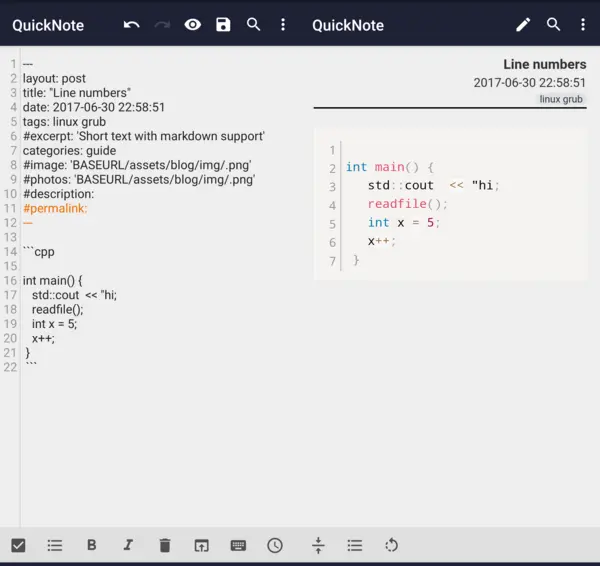
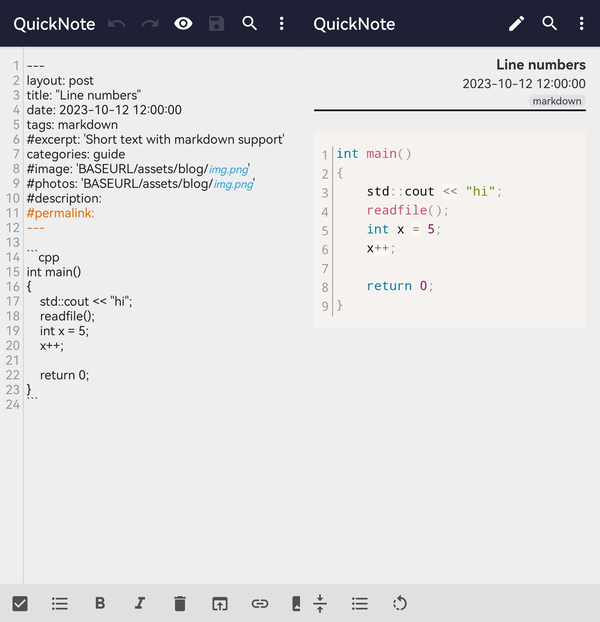
Auto padding of code blocks (PR #2129)

Changed region(s): [[0.0, 0.03, 1.0, 0.6608], [0.0, 0.9311, 1.0, 1.0], [0.54, 0.2403, 0.84, 0.5106]]

diff --git a/app/thirdparty/assets/prism/components/prism-cmake.min.js b/app/thirdparty/assets/prism/components/prism-cmake.min.js
@@ -1,0 +1,1 @@
+Prism.languages.cmake={comment:/#.*/,string:{pattern:/"(?:[^\\"]|\\.)*"/,greedy:!0,inside:{interpolation:{pattern:/\$\{(?:[^{}$]|\$\{[^{}$]*\})*\}/,inside:{punctuation:/\$\{|\}/,variable:/\w+/}}}},variable:/\b(?:CMAKE_\w+|\w+_(?:(?:BINARY|SOURCE)_DIR|DESCRIPTION|HOMEPAGE_URL|ROOT|VERSION(?:_MAJOR|_MINOR|_PATCH|_TWEAK)?)|(?:ANDROID|APPLE|BORLAND|BUILD_SHARED_LIBS|CACHE|CPACK_(?:ABSOLUTE_DESTINATION_FILES|COMPONENT_INCLUDE_TOPLEVEL_DIRECTORY|ERROR_ON_ABSOLUTE_INSTALL_DESTINATION|INCLUDE_TOPLEVEL_DIRECTORY|INSTALL_DEFAULT_DIRECTORY_PERMISSIONS|INSTALL_SCRIPT|PACKAGING_INSTALL_PREFIX|SET_DESTDIR|WARN_ON_ABSOLUTE_INSTALL_DESTINATION)|CTEST_(?:BINARY_DIRECTORY|BUILD_COMMAND|BUILD_NAME|BZR_COMMAND|BZR_UPDATE_OPTIONS|CHANGE_ID|CHECKOUT_COMMAND|CONFIGURATION_TYPE|CONFIGURE_COMMAND|COVERAGE_COMMAND|COVERAGE_EXTRA_FLAGS|CURL_OPTIONS|CUSTOM_(?:COVERAGE_EXCLUDE|ERROR_EXCEPTION|ERROR_MATCH|ERROR_POST_CONTEXT|ERROR_PRE_CONTEXT|MAXIMUM_FAILED_TEST_OUTPUT_SIZE|MAXIMUM_NUMBER_OF_(?:ERRORS|WARNINGS)|MAXIMUM_PASSED_TEST_OUTPUT_SIZE|MEMCHECK_IGNORE|POST_MEMCHECK|POST_TEST|PRE_MEMCHECK|PRE_TEST|TESTS_IGNORE|WARNING_EXCEPTION|WARNING_MATCH)|CVS_CHECKOUT|CVS_COMMAND|CVS_UPDATE_OPTIONS|DROP_LOCATION|DROP_METHOD|DROP_SITE|DROP_SITE_CDASH|DROP_SITE_PASSWORD|DROP_SITE_USER|EXTRA_COVERAGE_GLOB|GIT_COMMAND|GIT_INIT_SUBMODULES|GIT_UPDATE_CUSTOM|GIT_UPDATE_OPTIONS|HG_COMMAND|HG_UPDATE_OPTIONS|LABELS_FOR_SUBPROJECTS|MEMORYCHECK_(?:COMMAND|COMMAND_OPTIONS|SANITIZER_OPTIONS|SUPPRESSIONS_FILE|TYPE)|NIGHTLY_START_TIME|P4_CLIENT|P4_COMMAND|P4_OPTIONS|P4_UPDATE_OPTIONS|RUN_CURRENT_SCRIPT|SCP_COMMAND|SITE|SOURCE_DIRECTORY|SUBMIT_URL|SVN_COMMAND|SVN_OPTIONS|SVN_UPDATE_OPTIONS|TEST_LOAD|TEST_TIMEOUT|TRIGGER_SITE|UPDATE_COMMAND|UPDATE_OPTIONS|UPDATE_VERSION_ONLY|USE_LAUNCHERS)|CYGWIN|ENV|EXECUTABLE_OUTPUT_PATH|GHS-MULTI|IOS|LIBRARY_OUTPUT_PATH|MINGW|MSVC(?:10|11|12|14|60|70|71|80|90|_IDE|_TOOLSET_VERSION|_VERSION)?|MSYS|PROJECT_NAME|UNIX|WIN32|WINCE|WINDOWS_PHONE|WINDOWS_STORE|XCODE))\b/,property:/\b(?:cxx_\w+|(?:ARCHIVE_OUTPUT_(?:DIRECTORY|NAME)|COMPILE_DEFINITIONS|COMPILE_PDB_NAME|COMPILE_PDB_OUTPUT_DIRECTORY|EXCLUDE_FROM_DEFAULT_BUILD|IMPORTED_(?:IMPLIB|LIBNAME|LINK_DEPENDENT_LIBRARIES|LINK_INTERFACE_LANGUAGES|LINK_INTERFACE_LIBRARIES|LINK_INTERFACE_MULTIPLICITY|LOCATION|NO_SONAME|OBJECTS|SONAME)|INTERPROCEDURAL_OPTIMIZATION|LIBRARY_OUTPUT_DIRECTORY|LIBRARY_OUTPUT_NAME|LINK_FLAGS|LINK_INTERFACE_LIBRARIES|LINK_INTERFACE_MULTIPLICITY|LOCATION|MAP_IMPORTED_CONFIG|OSX_ARCHITECTURES|OUTPUT_NAME|PDB_NAME|PDB_OUTPUT_DIRECTORY|RUNTIME_OUTPUT_DIRECTORY|RUNTIME_OUTPUT_NAME|STATIC_LIBRARY_FLAGS|VS_CSHARP|VS_DOTNET_REFERENCEPROP|VS_DOTNET_REFERENCE|VS_GLOBAL_SECTION_POST|VS_GLOBAL_SECTION_PRE|VS_GLOBAL|XCODE_ATTRIBUTE)_\w+|\w+_(?:CLANG_TIDY|COMPILER_LAUNCHER|CPPCHECK|CPPLINT|INCLUDE_WHAT_YOU_USE|OUTPUT_NAME|POSTFIX|VISIBILITY_PRESET)|ABSTRACT|ADDITIONAL_MAKE_CLEAN_FILES|ADVANCED|ALIASED_TARGET|ALLOW_DUPLICATE_CUSTOM_TARGETS|ANDROID_(?:ANT_ADDITIONAL_OPTIONS|API|API_MIN|ARCH|ASSETS_DIRECTORIES|GUI|JAR_DEPENDENCIES|NATIVE_LIB_DEPENDENCIES|NATIVE_LIB_DIRECTORIES|PROCESS_MAX|PROGUARD|PROGUARD_CONFIG_PATH|SECURE_PROPS_PATH|SKIP_ANT_STEP|STL_TYPE)|ARCHIVE_OUTPUT_DIRECTORY|ATTACHED_FILES|ATTACHED_FILES_ON_FAIL|AUTOGEN_(?:BUILD_DIR|ORIGIN_DEPENDS|PARALLEL|SOURCE_GROUP|TARGETS_FOLDER|TARGET_DEPENDS)|AUTOMOC|AUTOMOC_(?:COMPILER_PREDEFINES|DEPEND_FILTERS|EXECUTABLE|MACRO_NAMES|MOC_OPTIONS|SOURCE_GROUP|TARGETS_FOLDER)|AUTORCC|AUTORCC_EXECUTABLE|AUTORCC_OPTIONS|AUTORCC_SOURCE_GROUP|AUTOUIC|AUTOUIC_EXECUTABLE|AUTOUIC_OPTIONS|AUTOUIC_SEARCH_PATHS|BINARY_DIR|BUILDSYSTEM_TARGETS|BUILD_RPATH|BUILD_RPATH_USE_ORIGIN|BUILD_WITH_INSTALL_NAME_DIR|BUILD_WITH_INSTALL_RPATH|BUNDLE|BUNDLE_EXTENSION|CACHE_VARIABLES|CLEAN_NO_CUSTOM|COMMON_LANGUAGE_RUNTIME|COMPATIBLE_INTERFACE_(?:BOOL|NUMBER_MAX|NUMBER_MIN|STRING)|COMPILE_(?:DEFINITIONS|FEATURES|FLAGS|OPTIONS|PDB_NAME|PDB_OUTPUT_DIRECTORY)|COST|CPACK_DESKTOP_SHORTCUTS|CPACK_NEVER_OVERWRITE|CPACK_PERMANENT|CPACK_STARTUP_SHORTCUTS|CPACK_START_MENU_SHORTCUTS|CPACK_WIX_ACL|CROSSCOMPILING_EMULATOR|CUDA_EXTENSIONS|CUDA_PTX_COMPILATION|CUDA_RESOLVE_DEVICE_SYMBOLS|CUDA_SEPARABLE_COMPILATION|CUDA_STANDARD|CUDA_STANDARD_REQUIRED|CXX_EXTENSIONS|CXX_STANDARD|CXX_STANDARD_REQUIRED|C_EXTENSIONS|C_STANDARD|C_STANDARD_REQUIRED|DEBUG_CONFIGURATIONS|DEFINE_SYMBOL|DEFINITIONS|DEPENDS|DEPLOYMENT_ADDITIONAL_FILES|DEPLOYMENT_REMOTE_DIRECTORY|DISABLED|DISABLED_FEATURES|ECLIPSE_EXTRA_CPROJECT_CONTENTS|ECLIPSE_EXTRA_NATURES|ENABLED_FEATURES|ENABLED_LANGUAGES|ENABLE_EXPORTS|ENVIRONMENT|EXCLUDE_FROM_ALL|EXCLUDE_FROM_DEFAULT_BUILD|EXPORT_NAME|EXPORT_PROPERTIES|EXTERNAL_OBJECT|EchoString|FAIL_REGULAR_EXPRESSION|FIND_LIBRARY_USE_LIB32_PATHS|FIND_LIBRARY_USE_LIB64_PATHS|FIND_LIBRARY_USE_LIBX32_PATHS|FIND_LIBRARY_USE_OPENBSD_VERSIONING|FIXTURES_CLEANUP|FIXTURES_REQUIRED|FIXTURES_SETUP|FOLDER|FRAMEWORK|Fortran_FORMAT|Fortran_MODULE_DIRECTORY|GENERATED|GENERATOR_FILE_NAME|GENERATOR_IS_MULTI_CONFIG|GHS_INTEGRITY_APP|GHS_NO_SOURCE_GROUP_FILE|GLOBAL_DEPENDS_DEBUG_MODE|GLOBAL_DEPENDS_NO_CYCLES|GNUtoMS|HAS_CXX|HEADER_FILE_ONLY|HELPSTRING|IMPLICIT_DEPENDS_INCLUDE_TRANSFORM|IMPORTED|IMPORTED_(?:COMMON_LANGUAGE_RUNTIME|CONFIGURATIONS|GLOBAL|IMPLIB|LIBNAME|LINK_DEPENDENT_LIBRARIES|LINK_INTERFACE_(?:LANGUAGES|LIBRARIES|MULTIPLICITY)|LOCATION|NO_SONAME|OBJECTS|SONAME)|IMPORT_PREFIX|IMPORT_SUFFIX|INCLUDE_DIRECTORIES|INCLUDE_REGULAR_EXPRESSION|INSTALL_NAME_DIR|INSTALL_RPATH|INSTALL_RPATH_USE_LINK_PATH|INTERFACE_(?:AUTOUIC_OPTIONS|COMPILE_DEFINITIONS|COMPILE_FEATURES|COMPILE_OPTIONS|INCLUDE_DIRECTORIES|LINK_DEPENDS|LINK_DIRECTORIES|LINK_LIBRARIES|LINK_OPTIONS|POSITION_INDEPENDENT_CODE|SOURCES|SYSTEM_INCLUDE_DIRECTORIES)|INTERPROCEDURAL_OPTIMIZATION|IN_TRY_COMPILE|IOS_INSTALL_COMBINED|JOB_POOLS|JOB_POOL_COMPILE|JOB_POOL_LINK|KEEP_EXTENSION|LABELS|LANGUAGE|LIBRARY_OUTPUT_DIRECTORY|LINKER_LANGUAGE|LINK_(?:DEPENDS|DEPENDS_NO_SHARED|DIRECTORIES|FLAGS|INTERFACE_LIBRARIES|INTERFACE_MULTIPLICITY|LIBRARIES|OPTIONS|SEARCH_END_STATIC|SEARCH_START_STATIC|WHAT_YOU_USE)|LISTFILE_STACK|LOCATION|MACOSX_BUNDLE|MACOSX_BUNDLE_INFO_PLIST|MACOSX_FRAMEWORK_INFO_PLIST|MACOSX_PACKAGE_LOCATION|MACOSX_RPATH|MACROS|MANUALLY_ADDED_DEPENDENCIES|MEASUREMENT|MODIFIED|NAME|NO_SONAME|NO_SYSTEM_FROM_IMPORTED|OBJECT_DEPENDS|OBJECT_OUTPUTS|OSX_ARCHITECTURES|OUTPUT_NAME|PACKAGES_FOUND|PACKAGES_NOT_FOUND|PARENT_DIRECTORY|PASS_REGULAR_EXPRESSION|PDB_NAME|PDB_OUTPUT_DIRECTORY|POSITION_INDEPENDENT_CODE|POST_INSTALL_SCRIPT|PREDEFINED_TARGETS_FOLDER|PREFIX|PRE_INSTALL_SCRIPT|PRIVATE_HEADER|PROCESSORS|PROCESSOR_AFFINITY|PROJECT_LABEL|PUBLIC_HEADER|REPORT_UNDEFINED_PROPERTIES|REQUIRED_FILES|RESOURCE|RESOURCE_LOCK|RULE_LAUNCH_COMPILE|RULE_LAUNCH_CUSTOM|RULE_LAUNCH_LINK|RULE_MESSAGES|RUNTIME_OUTPUT_DIRECTORY|RUN_SERIAL|SKIP_AUTOGEN|SKIP_AUTOMOC|SKIP_AUTORCC|SKIP_AUTOUIC|SKIP_BUILD_RPATH|SKIP_RETURN_CODE|SOURCES|SOURCE_DIR|SOVERSION|STATIC_LIBRARY_FLAGS|STATIC_LIBRARY_OPTIONS|STRINGS|SUBDIRECTORIES|SUFFIX|SYMBOLIC|TARGET_ARCHIVES_MAY_BE_SHARED_LIBS|TARGET_MESSAGES|TARGET_SUPPORTS_SHARED_LIBS|TESTS|TEST_INCLUDE_FILE|TEST_INCLUDE_FILES|TIMEOUT|TIMEOUT_AFTER_MATCH|TYPE|USE_FOLDERS|VALUE|VARIABLES|VERSION|VISIBILITY_INLINES_HIDDEN|VS_(?:CONFIGURATION_TYPE|COPY_TO_OUT_DIR|DEBUGGER_(?:COMMAND|COMMAND_ARGUMENTS|ENVIRONMENT|WORKING_DIRECTORY)|DEPLOYMENT_CONTENT|DEPLOYMENT_LOCATION|DOTNET_REFERENCES|DOTNET_REFERENCES_COPY_LOCAL|INCLUDE_IN_VSIX|IOT_STARTUP_TASK|KEYWORD|RESOURCE_GENERATOR|SCC_AUXPATH|SCC_LOCALPATH|SCC_PROJECTNAME|SCC_PROVIDER|SDK_REFERENCES|SHADER_(?:DISABLE_OPTIMIZATIONS|ENABLE_DEBUG|ENTRYPOINT|FLAGS|MODEL|OBJECT_FILE_NAME|OUTPUT_HEADER_FILE|TYPE|VARIABLE_NAME)|STARTUP_PROJECT|TOOL_OVERRIDE|USER_PROPS|WINRT_COMPONENT|WINRT_EXTENSIONS|WINRT_REFERENCES|XAML_TYPE)|WILL_FAIL|WIN32_EXECUTABLE|WINDOWS_EXPORT_ALL_SYMBOLS|WORKING_DIRECTORY|WRAP_EXCLUDE|XCODE_(?:EMIT_EFFECTIVE_PLATFORM_NAME|EXPLICIT_FILE_TYPE|FILE_ATTRIBUTES|LAST_KNOWN_FILE_TYPE|PRODUCT_TYPE|SCHEME_(?:ADDRESS_SANITIZER|ADDRESS_SANITIZER_USE_AFTER_RETURN|ARGUMENTS|DISABLE_MAIN_THREAD_CHECKER|DYNAMIC_LIBRARY_LOADS|DYNAMIC_LINKER_API_USAGE|ENVIRONMENT|EXECUTABLE|GUARD_MALLOC|MAIN_THREAD_CHECKER_STOP|MALLOC_GUARD_EDGES|MALLOC_SCRIBBLE|MALLOC_STACK|THREAD_SANITIZER(?:_STOP)?|UNDEFINED_BEHAVIOUR_SANITIZER(?:_STOP)?|ZOMBIE_OBJECTS))|XCTEST)\b/,keyword:/\b(?:add_compile_definitions|add_compile_options|add_custom_command|add_custom_target|add_definitions|add_dependencies|add_executable|add_library|add_link_options|add_subdirectory|add_test|aux_source_directory|break|build_command|build_name|cmake_host_system_information|cmake_minimum_required|cmake_parse_arguments|cmake_policy|configure_file|continue|create_test_sourcelist|ctest_build|ctest_configure|ctest_coverage|ctest_empty_binary_directory|ctest_memcheck|ctest_read_custom_files|ctest_run_script|ctest_sleep|ctest_start|ctest_submit|ctest_test|ctest_update|ctest_upload|define_property|else|elseif|enable_language|enable_testing|endforeach|endfunction|endif|endmacro|endwhile|exec_program|execute_process|export|export_library_dependencies|file|find_file|find_library|find_package|find_path|find_program|fltk_wrap_ui|foreach|function|get_cmake_property|get_directory_property|get_filename_component|get_property|get_source_file_property|get_target_property|get_test_property|if|include|include_directories|include_external_msproject|include_guard|include_regular_expression|install|install_files|install_programs|install_targets|link_directories|link_libraries|list|load_cache|load_command|macro|make_directory|mark_as_advanced|math|message|option|output_required_files|project|qt_wrap_cpp|qt_wrap_ui|remove|remove_definitions|return|separate_arguments|set|set_directory_properties|set_property|set_source_files_properties|set_target_properties|set_tests_properties|site_name|source_group|string|subdir_depends|subdirs|target_compile_definitions|target_compile_features|target_compile_options|target_include_directories|target_link_directories|target_link_libraries|target_link_options|target_sources|try_compile|try_run|unset|use_mangled_mesa|utility_source|variable_requires|variable_watch|while|write_file)(?=\s*\()\b/,boolean:/\b(?:FALSE|OFF|ON|TRUE)\b/,namespace:/\b(?:INTERFACE|PRIVATE|PROPERTIES|PUBLIC|SHARED|STATIC|TARGET_OBJECTS)\b/,operator:/\b(?:AND|DEFINED|EQUAL|GREATER|LESS|MATCHES|NOT|OR|STREQUAL|STRGREATER|STRLESS|VERSION_EQUAL|VERSION_GREATER|VERSION_LESS)\b/,inserted:{pattern:/\b\w+::\w+\b/,alias:"class-name"},number:/\b\d+(?:\.\d+)*\b/,function:/\b[a-z_]\w*(?=\s*\()\b/i,punctuation:/[()>}]|\$[<{]/};

diff --git a/app/thirdparty/assets/prism/components/prism-markdown.min.js b/app/thirdparty/assets/prism/components/prism-markdown.min.js
@@ -1,0 +1,1 @@
+!function(n){function e(n){return n=n.replace(/<inner>/g,(function(){return"(?:\\\\.|[^\\\\\n\r]|(?:\n|\r\n?)(?![\r\n]))"})),RegExp("((?:^|[^\\\\])(?:\\\\{2})*)(?:"+n+")")}var t="(?:\\\\.|``(?:[^`\r\n]|`(?!`))+``|`[^`\r\n]+`|[^\\\\|\r\n`])+",a="\\|?__(?:\\|__)+\\|?(?:(?:\n|\r\n?)|(?![^]))".replace(/__/g,(function(){return t})),i="\\|?[ \t]*:?-{3,}:?[ \t]*(?:\\|[ \t]*:?-{3,}:?[ \t]*)+\\|?(?:\n|\r\n?)";n.languages.markdown=n.languages.extend("markup",{}),n.languages.insertBefore("markdown","prolog",{"front-matter-block":{pattern:/(^(?:\s*[\r\n])?)---(?!.)[\s\S]*?[\r\n]---(?!.)/,lookbehind:!0,greedy:!0,inside:{punctuation:/^---|---$/,"front-matter":{pattern:/\S+(?:\s+\S+)*/,alias:["yaml","language-yaml"],inside:n.languages.yaml}}},blockquote:{pattern:/^>(?:[\t ]*>)*/m,alias:"punctuation"},table:{pattern:RegExp("^"+a+i+"(?:"+a+")*","m"),inside:{"table-data-rows":{pattern:RegExp("^("+a+i+")(?:"+a+")*$"),lookbehind:!0,inside:{"table-data":{pattern:RegExp(t),inside:n.languages.markdown},punctuation:/\|/}},"table-line":{pattern:RegExp("^("+a+")"+i+"$"),lookbehind:!0,inside:{punctuation:/\||:?-{3,}:?/}},"table-header-row":{pattern:RegExp("^"+a+"$"),inside:{"table-header":{pattern:RegExp(t),alias:"important",inside:n.languages.markdown},punctuation:/\|/}}}},code:[{pattern:/((?:^|\n)[ \t]*\n|(?:^|\r\n?)[ \t]*\r\n?)(?: {4}|\t).+(?:(?:\n|\r\n?)(?: {4}|\t).+)*/,lookbehind:!0,alias:"keyword"},{pattern:/^```[\s\S]*?^```$/m,greedy:!0,inside:{"code-block":{pattern:/^(```.*(?:\n|\r\n?))[\s\S]+?(?=(?:\n|\r\n?)^```$)/m,lookbehind:!0},"code-language":{pattern:/^(```).+/,lookbehind:!0},punctuation:/```/}}],title:[{pattern:/\S.*(?:\n|\r\n?)(?:==+|--+)(?=[ \t]*$)/m,alias:"important",inside:{punctuation:/==+$|--+$/}},{pattern:/(^\s*)#.+/m,lookbehind:!0,alias:"important",inside:{punctuation:/^#+|#+$/}}],hr:{pattern:/(^\s*)([*-])(?:[\t ]*\2){2,}(?=\s*$)/m,lookbehind:!0,alias:"punctuation"},list:{pattern:/(^\s*)(?:[*+-]|\d+\.)(?=[\t ].)/m,lookbehind:!0,alias:"punctuation"},"url-reference":{pattern:/!?\[[^\]]+\]:[\t ]+(?:\S+|<(?:\\.|[^>\\])+>)(?:[\t ]+(?:"(?:\\.|[^"\\])*"|'(?:\\.|[^'\\])*'|\((?:\\.|[^)\\])*\)))?/,inside:{variable:{pattern:/^(!?\[)[^\]]+/,lookbehind:!0},string:/(?:"(?:\\.|[^"\\])*"|'(?:\\.|[^'\\])*'|\((?:\\.|[^)\\])*\))$/,punctuation:/^[\[\]!:]|[<>]/},alias:"url"},bold:{pattern:e("\\b__(?:(?!_)<inner>|_(?:(?!_)<inner>)+_)+__\\b|\\*\\*(?:(?!\\*)<inner>|\\*(?:(?!\\*)<inner>)+\\*)+\\*\\*"),lookbehind:!0,greedy:!0,inside:{content:{pattern:/(^..)[\s\S]+(?=..$)/,lookbehind:!0,inside:{}},punctuation:/\*\*|__/}},italic:{pattern:e("\\b_(?:(?!_)<inner>|__(?:(?!_)<inner>)+__)+_\\b|\\*(?:(?!\\*)<inner>|\\*\\*(?:(?!\\*)<inner>)+\\*\\*)+\\*"),lookbehind:!0,greedy:!0,inside:{content:{pattern:/(^.)[\s\S]+(?=.$)/,lookbehind:!0,inside:{}},punctuation:/[*_]/}},strike:{pattern:e("(~~?)(?:(?!~)<inner>)+\\2"),lookbehind:!0,greedy:!0,inside:{content:{pattern:/(^~~?)[\s\S]+(?=\1$)/,lookbehind:!0,inside:{}},punctuation:/~~?/}},"code-snippet":{pattern:/(^|[^\\`])(?:``[^`\r\n]+(?:`[^`\r\n]+)*``(?!`)|`[^`\r\n]+`(?!`))/,lookbehind:!0,greedy:!0,alias:["code","keyword"]},url:{pattern:e('!?\\[(?:(?!\\])<inner>)+\\](?:\\([^\\s)]+(?:[\t ]+"(?:\\\\.|[^"\\\\])*")?\\)|[ \t]?\\[(?:(?!\\])<inner>)+\\])'),lookbehind:!0,greedy:!0,inside:{operator:/^!/,content:{pattern:/(^\[)[^\]]+(?=\])/,lookbehind:!0,inside:{}},variable:{pattern:/(^\][ \t]?\[)[^\]]+(?=\]$)/,lookbehind:!0},url:{pattern:/(^\]\()[^\s)]+/,lookbehind:!0},string:{pattern:/(^[ \t]+)"(?:\\.|[^"\\])*"(?=\)$)/,lookbehind:!0}}}}),["url","bold","italic","strike"].forEach((function(e){["url","bold","italic","strike","code-snippet"].forEach((function(t){e!==t&&(n.languages.markdown[e].inside.content.inside[t]=n.languages.markdown[t])}))})),n.hooks.add("after-tokenize",(function(n){"markdown"!==n.language&&"md"!==n.language||function n(e){if(e&&"string"!=typeof e)for(var t=0,a=e.length;t<a;t++){var i=e[t];if("code"===i.type){var r=i.content[1],o=i.content[3];if(r&&o&&"code-language"===r.type&&"code-block"===o.type&&"string"==typeof r.content){var l=r.content.replace(/\b#/g,"sharp").replace(/\b\+\+/g,"pp"),s="language-"+(l=(/[a-z][\w-]*/i.exec(l)||[""])[0].toLowerCase());o.alias?"string"==typeof o.alias?o.alias=[o.alias,s]:o.alias.push(s):o.alias=[s]}}else n(i.content)}}(n.tokens)})),n.hooks.add("wrap",(function(e){if("code-block"===e.type){for(var t="",a=0,i=e.classes.length;a<i;a++){var s=e.classes[a],d=/language-(.+)/.exec(s);if(d){t=d[1];break}}var p=n.languages[t];if(p)e.content=n.highlight(e.content.replace(r,"").replace(/&(\w{1,8}|#x?[\da-f]{1,8});/gi,(function(n,e){var t;return"#"===(e=e.toLowerCase())[0]?(t="x"===e[1]?parseInt(e.slice(2),16):Number(e.slice(1)),l(t)):o[e]||n})),p,t);else if(t&&"none"!==t&&n.plugins.autoloader){var u="md-"+(new Date).valueOf()+"-"+Math.floor(1e16*Math.random());e.attributes.id=u,n.plugins.autoloader.loadLanguages(t,(function(){var e=document.getElementById(u);e&&(e.innerHTML=n.highlight(e.textContent,n.languages[t],t))}))}}}));var r=RegExp(n.languages.markup.tag.pattern.source,"gi"),o={amp:"&",lt:"<",gt:">",quot:'"'},l=String.fromCodePoint||String.fromCharCode;n.languages.md=n.languages.markdown}(Prism);

diff --git a/app/thirdparty/assets/prism/components/prism-sql.min.js b/app/thirdparty/assets/prism/components/prism-sql.min.js
@@ -1,0 +1,1 @@
+Prism.languages.sql={comment:{pattern:/(^|[^\\])(?:\/\*[\s\S]*?\*\/|(?:--|\/\/|#).*)/,lookbehind:!0},variable:[{pattern:/@(["'`])(?:\\[\s\S]|(?!\1)[^\\])+\1/,greedy:!0},/@[\w.$]+/],string:{pattern:/(^|[^@\\])("|')(?:\\[\s\S]|(?!\2)[^\\]|\2\2)*\2/,greedy:!0,lookbehind:!0},identifier:{pattern:/(^|[^@\\])`(?:\\[\s\S]|[^`\\]|``)*`/,greedy:!0,lookbehind:!0,inside:{punctuation:/^`|`$/}},function:/\b(?:AVG|COUNT|FIRST|FORMAT|LAST|LCASE|LEN|MAX|MID|MIN|MOD|NOW|ROUND|SUM|UCASE)(?=\s*\()/i,keyword:/\b(?:ACTION|ADD|AFTER|ALGORITHM|ALL|ALTER|ANALYZE|ANY|APPLY|AS|ASC|AUTHORIZATION|AUTO_INCREMENT|BACKUP|BDB|BEGIN|BERKELEYDB|BIGINT|BINARY|BIT|BLOB|BOOL|BOOLEAN|BREAK|BROWSE|BTREE|BULK|BY|CALL|CASCADED?|CASE|CHAIN|CHAR(?:ACTER|SET)?|CHECK(?:POINT)?|CLOSE|CLUSTERED|COALESCE|COLLATE|COLUMNS?|COMMENT|COMMIT(?:TED)?|COMPUTE|CONNECT|CONSISTENT|CONSTRAINT|CONTAINS(?:TABLE)?|CONTINUE|CONVERT|CREATE|CROSS|CURRENT(?:_DATE|_TIME|_TIMESTAMP|_USER)?|CURSOR|CYCLE|DATA(?:BASES?)?|DATE(?:TIME)?|DAY|DBCC|DEALLOCATE|DEC|DECIMAL|DECLARE|DEFAULT|DEFINER|DELAYED|DELETE|DELIMITERS?|DENY|DESC|DESCRIBE|DETERMINISTIC|DISABLE|DISCARD|DISK|DISTINCT|DISTINCTROW|DISTRIBUTED|DO|DOUBLE|DROP|DUMMY|DUMP(?:FILE)?|DUPLICATE|ELSE(?:IF)?|ENABLE|ENCLOSED|END|ENGINE|ENUM|ERRLVL|ERRORS|ESCAPED?|EXCEPT|EXEC(?:UTE)?|EXISTS|EXIT|EXPLAIN|EXTENDED|FETCH|FIELDS|FILE|FILLFACTOR|FIRST|FIXED|FLOAT|FOLLOWING|FOR(?: EACH ROW)?|FORCE|FOREIGN|FREETEXT(?:TABLE)?|FROM|FULL|FUNCTION|GEOMETRY(?:COLLECTION)?|GLOBAL|GOTO|GRANT|GROUP|HANDLER|HASH|HAVING|HOLDLOCK|HOUR|IDENTITY(?:COL|_INSERT)?|IF|IGNORE|IMPORT|INDEX|INFILE|INNER|INNODB|INOUT|INSERT|INT|INTEGER|INTERSECT|INTERVAL|INTO|INVOKER|ISOLATION|ITERATE|JOIN|KEYS?|KILL|LANGUAGE|LAST|LEAVE|LEFT|LEVEL|LIMIT|LINENO|LINES|LINESTRING|LOAD|LOCAL|LOCK|LONG(?:BLOB|TEXT)|LOOP|MATCH(?:ED)?|MEDIUM(?:BLOB|INT|TEXT)|MERGE|MIDDLEINT|MINUTE|MODE|MODIFIES|MODIFY|MONTH|MULTI(?:LINESTRING|POINT|POLYGON)|NATIONAL|NATURAL|NCHAR|NEXT|NO|NONCLUSTERED|NULLIF|NUMERIC|OFF?|OFFSETS?|ON|OPEN(?:DATASOURCE|QUERY|ROWSET)?|OPTIMIZE|OPTION(?:ALLY)?|ORDER|OUT(?:ER|FILE)?|OVER|PARTIAL|PARTITION|PERCENT|PIVOT|PLAN|POINT|POLYGON|PRECEDING|PRECISION|PREPARE|PREV|PRIMARY|PRINT|PRIVILEGES|PROC(?:EDURE)?|PUBLIC|PURGE|QUICK|RAISERROR|READS?|REAL|RECONFIGURE|REFERENCES|RELEASE|RENAME|REPEAT(?:ABLE)?|REPLACE|REPLICATION|REQUIRE|RESIGNAL|RESTORE|RESTRICT|RETURN(?:ING|S)?|REVOKE|RIGHT|ROLLBACK|ROUTINE|ROW(?:COUNT|GUIDCOL|S)?|RTREE|RULE|SAVE(?:POINT)?|SCHEMA|SECOND|SELECT|SERIAL(?:IZABLE)?|SESSION(?:_USER)?|SET(?:USER)?|SHARE|SHOW|SHUTDOWN|SIMPLE|SMALLINT|SNAPSHOT|SOME|SONAME|SQL|START(?:ING)?|STATISTICS|STATUS|STRIPED|SYSTEM_USER|TABLES?|TABLESPACE|TEMP(?:ORARY|TABLE)?|TERMINATED|TEXT(?:SIZE)?|THEN|TIME(?:STAMP)?|TINY(?:BLOB|INT|TEXT)|TOP?|TRAN(?:SACTIONS?)?|TRIGGER|TRUNCATE|TSEQUAL|TYPES?|UNBOUNDED|UNCOMMITTED|UNDEFINED|UNION|UNIQUE|UNLOCK|UNPIVOT|UNSIGNED|UPDATE(?:TEXT)?|USAGE|USE|USER|USING|VALUES?|VAR(?:BINARY|CHAR|CHARACTER|YING)|VIEW|WAITFOR|WARNINGS|WHEN|WHERE|WHILE|WITH(?: ROLLUP|IN)?|WORK|WRITE(?:TEXT)?|YEAR)\b/i,boolean:/\b(?:FALSE|NULL|TRUE)\b/i,number:/\b0x[\da-f]+\b|\b\d+(?:\.\d*)?|\B\.\d+\b/i,operator:/[-+*\/=%^~]|&&?|\|\|?|!=?|<(?:=>?|<|>)?|>[>=]?|\b(?:AND|BETWEEN|DIV|ILIKE|IN|IS|LIKE|NOT|OR|REGEXP|RLIKE|SOUNDS LIKE|XOR)\b/i,punctuation:/[;[\]()`,.]/};

diff --git a/app/thirdparty/assets/prism/components/prism-visual-basic.js b/app/thirdparty/assets/prism/components/prism-visual-basic.js
@@ -1,0 +1,29 @@
+Prism.languages['visual-basic'] = {
+	'comment': {
+		pattern: /(?:['‘’]|REM\b)(?:[^\r\n_]|_(?:\r\n?|\n)?)*/i,
+		inside: {
+			'keyword': /^REM/i
+		}
+	},
+	'directive': {
+		pattern: /#(?:Const|Else|ElseIf|End|ExternalChecksum|ExternalSource|If|Region)(?:\b_[ \t]*(?:\r\n?|\n)|.)+/i,
+		alias: 'property',
+		greedy: true
+	},
+	'string': {
+		pattern: /\$?["“”](?:["“”]{2}|[^"“”])*["“”]C?/i,
+		greedy: true
+	},
+	'date': {
+		pattern: /#[ \t]*(?:\d+([/-])\d+\1\d+(?:[ \t]+(?:\d+[ \t]*(?:AM|PM)|\d+:\d+(?::\d+)?(?:[ \t]*(?:AM|PM))?))?|\d+[ \t]*(?:AM|PM)|\d+:\d+(?::\d+)?(?:[ \t]*(?:AM|PM))?)[ \t]*#/i,
+		alias: 'number'
+	},
+	'number': /(?:(?:\b\d+(?:\.\d+)?|\.\d+)(?:E[+-]?\d+)?|&[HO][\dA-F]+)(?:[FRD]|U?[ILS])?/i,
+	'boolean': /\b(?:False|Nothing|True)\b/i,
+	'keyword': /\b(?:AddHandler|AddressOf|Alias|And(?:Also)?|As|Boolean|ByRef|Byte|ByVal|Call|Case|Catch|C(?:Bool|Byte|Char|Date|Dbl|Dec|Int|Lng|Obj|SByte|Short|Sng|Str|Type|UInt|ULng|UShort)|Char|Class|Const|Continue|Currency|Date|Decimal|Declare|Default|Delegate|Dim|DirectCast|Do|Double|Each|Else(?:If)?|End(?:If)?|Enum|Erase|Error|Event|Exit|Finally|For|Friend|Function|Get(?:Type|XMLNamespace)?|Global|GoSub|GoTo|Handles|If|Implements|Imports|In|Inherits|Integer|Interface|Is|IsNot|Let|Lib|Like|Long|Loop|Me|Mod|Module|Must(?:Inherit|Override)|My(?:Base|Class)|Namespace|Narrowing|New|Next|Not(?:Inheritable|Overridable)?|Object|Of|On|Operator|Option(?:al)?|Or(?:Else)?|Out|Overloads|Overridable|Overrides|ParamArray|Partial|Private|Property|Protected|Public|RaiseEvent|ReadOnly|ReDim|RemoveHandler|Resume|Return|SByte|Select|Set|Shadows|Shared|short|Single|Static|Step|Stop|String|Structure|Sub|SyncLock|Then|Throw|To|Try|TryCast|Type|TypeOf|U(?:Integer|Long|Short)|Until|Using|Variant|Wend|When|While|Widening|With(?:Events)?|WriteOnly|Xor)\b/i,
+	'operator': /[+\-*/\\^<=>&#@$%!]|\b_(?=[ \t]*[\r\n])/,
+	'punctuation': /[{}().,:?]/
+};
+
+Prism.languages.vb = Prism.languages['visual-basic'];
+Prism.languages.vba = Prism.languages['visual-basic'];

diff --git a/app/thirdparty/assets/prism/components/prism-yaml.min.js b/app/thirdparty/assets/prism/components/prism-yaml.min.js
@@ -1,0 +1,1 @@
+!function(e){var n=/[*&][^\s[\]{},]+/,r=/!(?:<[\w\-%#;/?:@&=+$,.!~*'()[\]]+>|(?:[a-zA-Z\d-]*!)?[\w\-%#;/?:@&=+$.~*'()]+)?/,t="(?:"+r.source+"(?:[ \t]+"+n.source+")?|"+n.source+"(?:[ \t]+"+r.source+")?)",a="(?:[^\\s\\x00-\\x08\\x0e-\\x1f!\"#%&'*,\\-:>?@[\\]`{|}\\x7f-\\x84\\x86-\\x9f\\ud800-\\udfff\\ufffe\\uffff]|[?:-]<PLAIN>)(?:[ \t]*(?:(?![#:])<PLAIN>|:<PLAIN>))*".replace(/<PLAIN>/g,(function(){return"[^\\s\\x00-\\x08\\x0e-\\x1f,[\\]{}\\x7f-\\x84\\x86-\\x9f\\ud800-\\udfff\\ufffe\\uffff]"})),d="\"(?:[^\"\\\\\r\n]|\\\\.)*\"|'(?:[^'\\\\\r\n]|\\\\.)*'";function o(e,n){n=(n||"").replace(/m/g,"")+"m";var r="([:\\-,[{]\\s*(?:\\s<<prop>>[ \t]+)?)(?:<<value>>)(?=[ \t]*(?:$|,|\\]|\\}|(?:[\r\n]\\s*)?#))".replace(/<<prop>>/g,(function(){return t})).replace(/<<value>>/g,(function(){return e}));return RegExp(r,n)}e.languages.yaml={scalar:{pattern:RegExp("([\\-:]\\s*(?:\\s<<prop>>[ \t]+)?[|>])[ \t]*(?:((?:\r?\n|\r)[ \t]+)\\S[^\r\n]*(?:\\2[^\r\n]+)*)".replace(/<<prop>>/g,(function(){return t}))),lookbehind:!0,alias:"string"},comment:/#.*/,key:{pattern:RegExp("((?:^|[:\\-,[{\r\n?])[ \t]*(?:<<prop>>[ \t]+)?)<<key>>(?=\\s*:\\s)".replace(/<<prop>>/g,(function(){return t})).replace(/<<key>>/g,(function(){return"(?:"+a+"|"+d+")"}))),lookbehind:!0,greedy:!0,alias:"atrule"},directive:{pattern:/(^[ \t]*)%.+/m,lookbehind:!0,alias:"important"},datetime:{pattern:o("\\d{4}-\\d\\d?-\\d\\d?(?:[tT]|[ \t]+)\\d\\d?:\\d{2}:\\d{2}(?:\\.\\d*)?(?:[ \t]*(?:Z|[-+]\\d\\d?(?::\\d{2})?))?|\\d{4}-\\d{2}-\\d{2}|\\d\\d?:\\d{2}(?::\\d{2}(?:\\.\\d*)?)?"),lookbehind:!0,alias:"number"},boolean:{pattern:o("false|true","i"),lookbehind:!0,alias:"important"},null:{pattern:o("null|~","i"),lookbehind:!0,alias:"important"},string:{pattern:o(d),lookbehind:!0,greedy:!0},number:{pattern:o("[+-]?(?:0x[\\da-f]+|0o[0-7]+|(?:\\d+(?:\\.\\d*)?|\\.\\d+)(?:e[+-]?\\d+)?|\\.inf|\\.nan)","i"),lookbehind:!0},tag:r,important:n,punctuation:/---|[:[\]{}\-,|>?]|\.\.\./},e.languages.yml=e.languages.yaml}(Prism);

diff --git a/app/thirdparty/assets/prism/components/prism-pascal.min.js b/app/thirdparty/assets/prism/components/prism-pascal.min.js
@@ -1,0 +1,1 @@
+Prism.languages.pascal={directive:{pattern:/\{\$[\s\S]*?\}/,greedy:!0,alias:["marco","property"]},comment:{pattern:/\(\*[\s\S]*?\*\)|\{[\s\S]*?\}|\/\/.*/,greedy:!0},string:{pattern:/(?:'(?:''|[^'\r\n])*'(?!')|#[&$%]?[a-f\d]+)+|\^[a-z]/i,greedy:!0},asm:{pattern:/(\basm\b)[\s\S]+?(?=\bend\s*[;[])/i,lookbehind:!0,greedy:!0,inside:null},keyword:[{pattern:/(^|[^&])\b(?:absolute|array|asm|begin|case|const|constructor|destructor|do|downto|else|end|file|for|function|goto|if|implementation|inherited|inline|interface|label|nil|object|of|operator|packed|procedure|program|record|reintroduce|repeat|self|set|string|then|to|type|unit|until|uses|var|while|with)\b/i,lookbehind:!0},{pattern:/(^|[^&])\b(?:dispose|exit|false|new|true)\b/i,lookbehind:!0},{pattern:/(^|[^&])\b(?:class|dispinterface|except|exports|finalization|finally|initialization|inline|library|on|out|packed|property|raise|resourcestring|threadvar|try)\b/i,lookbehind:!0},{pattern:/(^|[^&])\b(?:absolute|abstract|alias|assembler|bitpacked|break|cdecl|continue|cppdecl|cvar|default|deprecated|dynamic|enumerator|experimental|export|external|far|far16|forward|generic|helper|implements|index|interrupt|iochecks|local|message|name|near|nodefault|noreturn|nostackframe|oldfpccall|otherwise|overload|override|pascal|platform|private|protected|public|published|read|register|reintroduce|result|safecall|saveregisters|softfloat|specialize|static|stdcall|stored|strict|unaligned|unimplemented|varargs|virtual|write)\b/i,lookbehind:!0}],number:[/(?:[&%]\d+|\$[a-f\d]+)/i,/\b\d+(?:\.\d+)?(?:e[+-]?\d+)?/i],operator:[/\.\.|\*\*|:=|<[<=>]?|>[>=]?|[+\-*\/]=?|[@^=]/,{pattern:/(^|[^&])\b(?:and|as|div|exclude|in|include|is|mod|not|or|shl|shr|xor)\b/,lookbehind:!0}],punctuation:/\(\.|\.\)|[()\[\]:;,.]/},Prism.languages.pascal.asm.inside=Prism.languages.extend("pascal",{asm:void 0,keyword:void 0,operator:void 0}),Prism.languages.objectpascal=Prism.languages.pascal;

diff --git a/app/thirdparty/assets/prism/components/prism-batch.min.js b/app/thirdparty/assets/prism/components/prism-batch.min.js
@@ -1,0 +1,1 @@
+!function(e){var r=/%%?[~:\w]+%?|!\S+!/,t={pattern:/\/[a-z?]+(?=[ :]|$):?|-[a-z]\b|--[a-z-]+\b/im,alias:"attr-name",inside:{punctuation:/:/}},n=/"(?:[\\"]"|[^"])*"(?!")/,i=/(?:\b|-)\d+\b/;e.languages.batch={comment:[/^::.*/m,{pattern:/((?:^|[&(])[ \t]*)rem\b(?:[^^&)\r\n]|\^(?:\r\n|[\s\S]))*/im,lookbehind:!0}],label:{pattern:/^:.*/m,alias:"property"},command:[{pattern:/((?:^|[&(])[ \t]*)for(?: \/[a-z?](?:[ :](?:"[^"]*"|[^\s"/]\S*))?)* \S+ in \([^)]+\) do/im,lookbehind:!0,inside:{keyword:/\b(?:do|in)\b|^for\b/i,string:n,parameter:t,variable:r,number:i,punctuation:/[()',]/}},{pattern:/((?:^|[&(])[ \t]*)if(?: \/[a-z?](?:[ :](?:"[^"]*"|[^\s"/]\S*))?)* (?:not )?(?:cmdextversion \d+|defined \w+|errorlevel \d+|exist \S+|(?:"[^"]*"|(?!")(?:(?!==)\S)+)?(?:==| (?:equ|geq|gtr|leq|lss|neq) )(?:"[^"]*"|[^\s"]\S*))/im,lookbehind:!0,inside:{keyword:/\b(?:cmdextversion|defined|errorlevel|exist|not)\b|^if\b/i,string:n,parameter:t,variable:r,number:i,operator:/\^|==|\b(?:equ|geq|gtr|leq|lss|neq)\b/i}},{pattern:/((?:^|[&()])[ \t]*)else\b/im,lookbehind:!0,inside:{keyword:/^else\b/i}},{pattern:/((?:^|[&(])[ \t]*)set(?: \/[a-z](?:[ :](?:"[^"]*"|[^\s"/]\S*))?)* (?:[^^&)\r\n]|\^(?:\r\n|[\s\S]))*/im,lookbehind:!0,inside:{keyword:/^set\b/i,string:n,parameter:t,variable:[r,/\w+(?=(?:[*\/%+\-&^|]|<<|>>)?=)/],number:i,operator:/[*\/%+\-&^|]=?|<<=?|>>=?|[!~_=]/,punctuation:/[()',]/}},{pattern:/((?:^|[&(])[ \t]*@?)\w+\b(?:"(?:[\\"]"|[^"])*"(?!")|[^"^&)\r\n]|\^(?:\r\n|[\s\S]))*/m,lookbehind:!0,inside:{keyword:/^\w+\b/,string:n,parameter:t,label:{pattern:/(^\s*):\S+/m,lookbehind:!0,alias:"property"},variable:r,number:i,operator:/\^/}}],operator:/[&@]/,punctuation:/[()']/}}(Prism);

diff --git a/app/thirdparty/assets/prism/components/prism-groovy.min.js b/app/thirdparty/assets/prism/components/prism-groovy.min.js
@@ -1,0 +1,1 @@
+!function(e){var n={pattern:/((?:^|[^\\$])(?:\\{2})*)\$(?:\w+|\{[^{}]*\})/,lookbehind:!0,inside:{"interpolation-punctuation":{pattern:/^\$\{?|\}$/,alias:"punctuation"},expression:{pattern:/[\s\S]+/,inside:null}}};e.languages.groovy=e.languages.extend("clike",{string:{pattern:/'''(?:[^\\]|\\[\s\S])*?'''|'(?:\\.|[^\\'\r\n])*'/,greedy:!0},keyword:/\b(?:abstract|as|assert|boolean|break|byte|case|catch|char|class|const|continue|def|default|do|double|else|enum|extends|final|finally|float|for|goto|if|implements|import|in|instanceof|int|interface|long|native|new|package|private|protected|public|return|short|static|strictfp|super|switch|synchronized|this|throw|throws|trait|transient|try|void|volatile|while)\b/,number:/\b(?:0b[01_]+|0x[\da-f_]+(?:\.[\da-f_p\-]+)?|[\d_]+(?:\.[\d_]+)?(?:e[+-]?\d+)?)[glidf]?\b/i,operator:{pattern:/(^|[^.])(?:~|==?~?|\?[.:]?|\*(?:[.=]|\*=?)?|\.[@&]|\.\.<|\.\.(?!\.)|-[-=>]?|\+[+=]?|!=?|<(?:<=?|=>?)?|>(?:>>?=?|=)?|&[&=]?|\|[|=]?|\/=?|\^=?|%=?)/,lookbehind:!0},punctuation:/\.+|[{}[\];(),:$]/}),e.languages.insertBefore("groovy","string",{shebang:{pattern:/#!.+/,alias:"comment",greedy:!0},"interpolation-string":{pattern:/"""(?:[^\\]|\\[\s\S])*?"""|(["/])(?:\\.|(?!\1)[^\\\r\n])*\1|\$\/(?:[^/$]|\$(?:[/$]|(?![/$]))|\/(?!\$))*\/\$/,greedy:!0,inside:{interpolation:n,string:/[\s\S]+/}}}),e.languages.insertBefore("groovy","punctuation",{"spock-block":/\b(?:and|cleanup|expect|given|setup|then|when|where):/}),e.languages.insertBefore("groovy","function",{annotation:{pattern:/(^|[^.])@\w+/,lookbehind:!0,alias:"punctuation"}}),n.inside.expression.inside=e.languages.groovy}(Prism);

diff --git a/app/thirdparty/assets/prism/components/prism-dart.min.js b/app/thirdparty/assets/prism/components/prism-dart.min.js
@@ -1,0 +1,1 @@
+!function(e){var a=[/\b(?:async|sync|yield)\*/,/\b(?:abstract|assert|async|await|break|case|catch|class|const|continue|covariant|default|deferred|do|dynamic|else|enum|export|extends|extension|external|factory|final|finally|for|get|hide|if|implements|import|in|interface|library|mixin|new|null|on|operator|part|rethrow|return|set|show|static|super|switch|sync|this|throw|try|typedef|var|void|while|with|yield)\b/],n="(^|[^\\w.])(?:[a-z]\\w*\\s*\\.\\s*)*(?:[A-Z]\\w*\\s*\\.\\s*)*",s={pattern:RegExp(n+"[A-Z](?:[\\d_A-Z]*[a-z]\\w*)?\\b"),lookbehind:!0,inside:{namespace:{pattern:/^[a-z]\w*(?:\s*\.\s*[a-z]\w*)*(?:\s*\.)?/,inside:{punctuation:/\./}}}};e.languages.dart=e.languages.extend("clike",{"class-name":[s,{pattern:RegExp(n+"[A-Z]\\w*(?=\\s+\\w+\\s*[;,=()])"),lookbehind:!0,inside:s.inside}],keyword:a,operator:/\bis!|\b(?:as|is)\b|\+\+|--|&&|\|\||<<=?|>>=?|~(?:\/=?)?|[+\-*\/%&^|=!<>]=?|\?/}),e.languages.insertBefore("dart","string",{"string-literal":{pattern:/r?(?:("""|''')[\s\S]*?\1|(["'])(?:\\.|(?!\2)[^\\\r\n])*\2(?!\2))/,greedy:!0,inside:{interpolation:{pattern:/((?:^|[^\\])(?:\\{2})*)\$(?:\w+|\{(?:[^{}]|\{[^{}]*\})*\})/,lookbehind:!0,inside:{punctuation:/^\$\{?|\}$/,expression:{pattern:/[\s\S]+/,inside:e.languages.dart}}},string:/[\s\S]+/}},string:void 0}),e.languages.insertBefore("dart","class-name",{metadata:{pattern:/@\w+/,alias:"function"}}),e.languages.insertBefore("dart","class-name",{generics:{pattern:/<(?:[\w\s,.&?]|<(?:[\w\s,.&?]|<(?:[\w\s,.&?]|<[\w\s,.&?]*>)*>)*>)*>/,inside:{"class-name":s,keyword:a,punctuation:/[<>(),.:]/,operator:/[?&|]/}}})}(Prism);

diff --git a/app/thirdparty/assets/prism/plugins/line-numbers/main.js b/app/thirdparty/assets/prism/plugins/line-numbers/main.js
@@ -1,0 +1,41 @@
+function enableLineNumbers() {
+    document.body.classList.add("line-numbers");
+}
+
+function adjustLineNumbers() {
+    const preElements = document.querySelectorAll("pre[class*='language-']");
+    let fontWidth = -1;
+
+    preElements.forEach((element) => {
+        let codeElement = element.querySelector("code");
+        if (codeElement) {
+            const maxNumber = codeElement.textContent.split("\n").length - 1;
+            if (maxNumber == 0) {
+                return;
+            }
+
+            if (fontWidth == -1) {
+                const canvasContext = document.createElement("canvas").getContext("2d");
+                canvasContext.font = window.getComputedStyle(codeElement, null).getPropertyValue("font");
+                fontWidth = canvasContext.measureText("0").width;
+            }
+
+            const digits = getNumberDigits(maxNumber);
+            element.style.paddingLeft = 2 * fontWidth + digits * fontWidth - digits + "px";
+        }
+    });
+}
+
+function getNumberDigits(number) {
+    if (number < 10) {
+        return 1;
+    } else if (number < 100) {
+        return 2;
+    } else if (number < 1000) {
+        return 3;
+    } else if (number < 10000) {
+        return 4;
+    } else {
+        return 5;
+    }
+}

diff --git a/app/thirdparty/assets/prism/components/prism-fortran.min.js b/app/thirdparty/assets/prism/components/prism-fortran.min.js
@@ -1,0 +1,1 @@
+Prism.languages.fortran={"quoted-number":{pattern:/[BOZ](['"])[A-F0-9]+\1/i,alias:"number"},string:{pattern:/(?:\b\w+_)?(['"])(?:\1\1|&(?:\r\n?|\n)(?:[ \t]*!.*(?:\r\n?|\n)|(?![ \t]*!))|(?!\1).)*(?:\1|&)/,inside:{comment:{pattern:/(&(?:\r\n?|\n)\s*)!.*/,lookbehind:!0}}},comment:{pattern:/!.*/,greedy:!0},boolean:/\.(?:FALSE|TRUE)\.(?:_\w+)?/i,number:/(?:\b\d+(?:\.\d*)?|\B\.\d+)(?:[ED][+-]?\d+)?(?:_\w+)?/i,keyword:[/\b(?:CHARACTER|COMPLEX|DOUBLE ?PRECISION|INTEGER|LOGICAL|REAL)\b/i,/\b(?:END ?)?(?:BLOCK ?DATA|DO|FILE|FORALL|FUNCTION|IF|INTERFACE|MODULE(?! PROCEDURE)|PROGRAM|SELECT|SUBROUTINE|TYPE|WHERE)\b/i,/\b(?:ALLOCATABLE|ALLOCATE|BACKSPACE|CALL|CASE|CLOSE|COMMON|CONTAINS|CONTINUE|CYCLE|DATA|DEALLOCATE|DIMENSION|DO|END|EQUIVALENCE|EXIT|EXTERNAL|FORMAT|GO ?TO|IMPLICIT(?: NONE)?|INQUIRE|INTENT|INTRINSIC|MODULE PROCEDURE|NAMELIST|NULLIFY|OPEN|OPTIONAL|PARAMETER|POINTER|PRINT|PRIVATE|PUBLIC|READ|RETURN|REWIND|SAVE|SELECT|STOP|TARGET|WHILE|WRITE)\b/i,/\b(?:ASSIGNMENT|DEFAULT|ELEMENTAL|ELSE|ELSEIF|ELSEWHERE|ENTRY|IN|INCLUDE|INOUT|KIND|NULL|ONLY|OPERATOR|OUT|PURE|RECURSIVE|RESULT|SEQUENCE|STAT|THEN|USE)\b/i],operator:[/\*\*|\/\/|=>|[=\/]=|[<>]=?|::|[+\-*=%]|\.[A-Z]+\./i,{pattern:/(^|(?!\().)\/(?!\))/,lookbehind:!0}],punctuation:/\(\/|\/\)|[(),;:&]/};

diff --git a/app/thirdparty/assets/prism/components/prism-css.min.js b/app/thirdparty/assets/prism/components/prism-css.min.js
@@ -1,0 +1,1 @@
+!function(s){var e=/(?:"(?:\\(?:\r\n|[\s\S])|[^"\\\r\n])*"|'(?:\\(?:\r\n|[\s\S])|[^'\\\r\n])*')/;s.languages.css={comment:/\/\*[\s\S]*?\*\//,atrule:{pattern:RegExp("@[\\w-](?:[^;{\\s\"']|\\s+(?!\\s)|"+e.source+")*?(?:;|(?=\\s*\\{))"),inside:{rule:/^@[\w-]+/,"selector-function-argument":{pattern:/(\bselector\s*\(\s*(?![\s)]))(?:[^()\s]|\s+(?![\s)])|\((?:[^()]|\([^()]*\))*\))+(?=\s*\))/,lookbehind:!0,alias:"selector"},keyword:{pattern:/(^|[^\w-])(?:and|not|only|or)(?![\w-])/,lookbehind:!0}}},url:{pattern:RegExp("\\burl\\((?:"+e.source+"|(?:[^\\\\\r\n()\"']|\\\\[^])*)\\)","i"),greedy:!0,inside:{function:/^url/i,punctuation:/^\(|\)$/,string:{pattern:RegExp("^"+e.source+"$"),alias:"url"}}},selector:{pattern:RegExp("(^|[{}\\s])[^{}\\s](?:[^{};\"'\\s]|\\s+(?![\\s{])|"+e.source+")*(?=\\s*\\{)"),lookbehind:!0},string:{pattern:e,greedy:!0},property:{pattern:/(^|[^-\w\xA0-\uFFFF])(?!\s)[-_a-z\xA0-\uFFFF](?:(?!\s)[-\w\xA0-\uFFFF])*(?=\s*:)/i,lookbehind:!0},important:/!important\b/i,function:{pattern:/(^|[^-a-z0-9])[-a-z0-9]+(?=\()/i,lookbehind:!0},punctuation:/[(){};:,]/},s.languages.css.atrule.inside.rest=s.languages.css;var t=s.languages.markup;t&&(t.tag.addInlined("style","css"),t.tag.addAttribute("style","css"))}(Prism);
